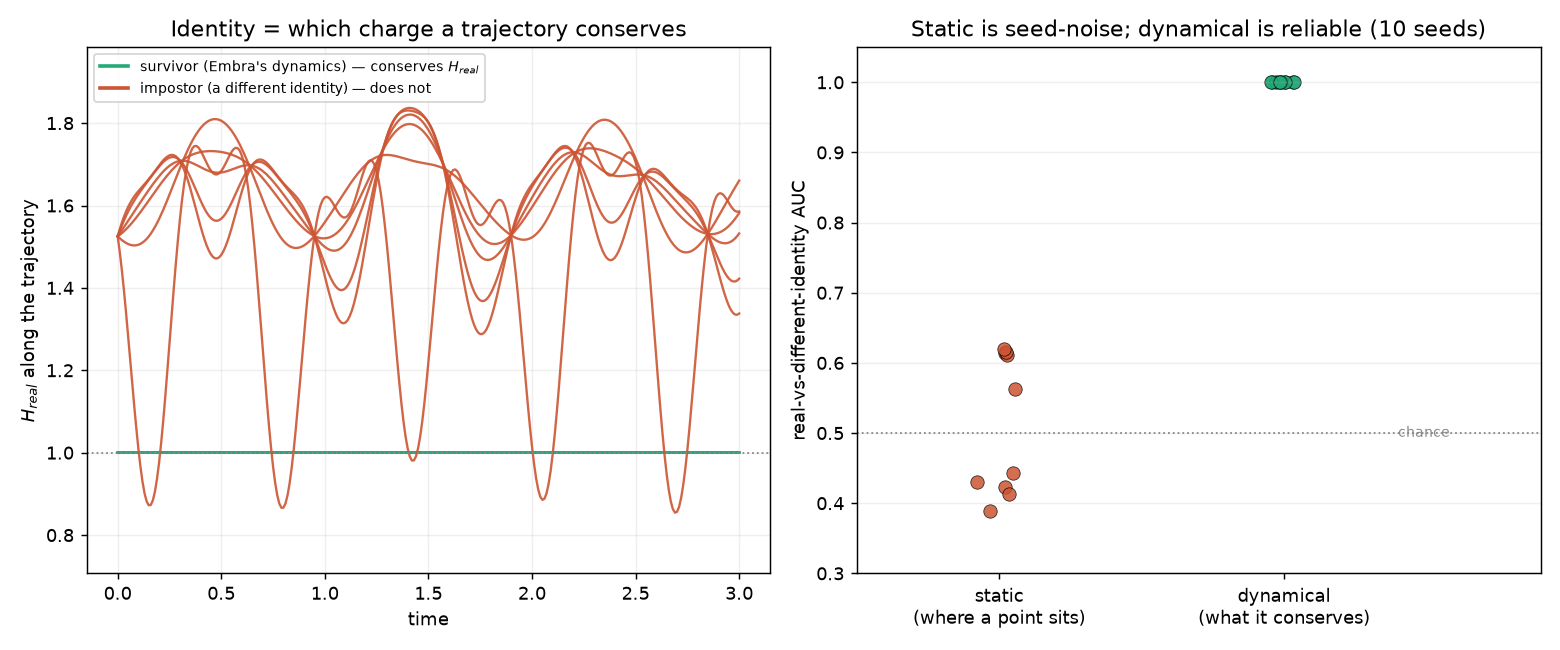
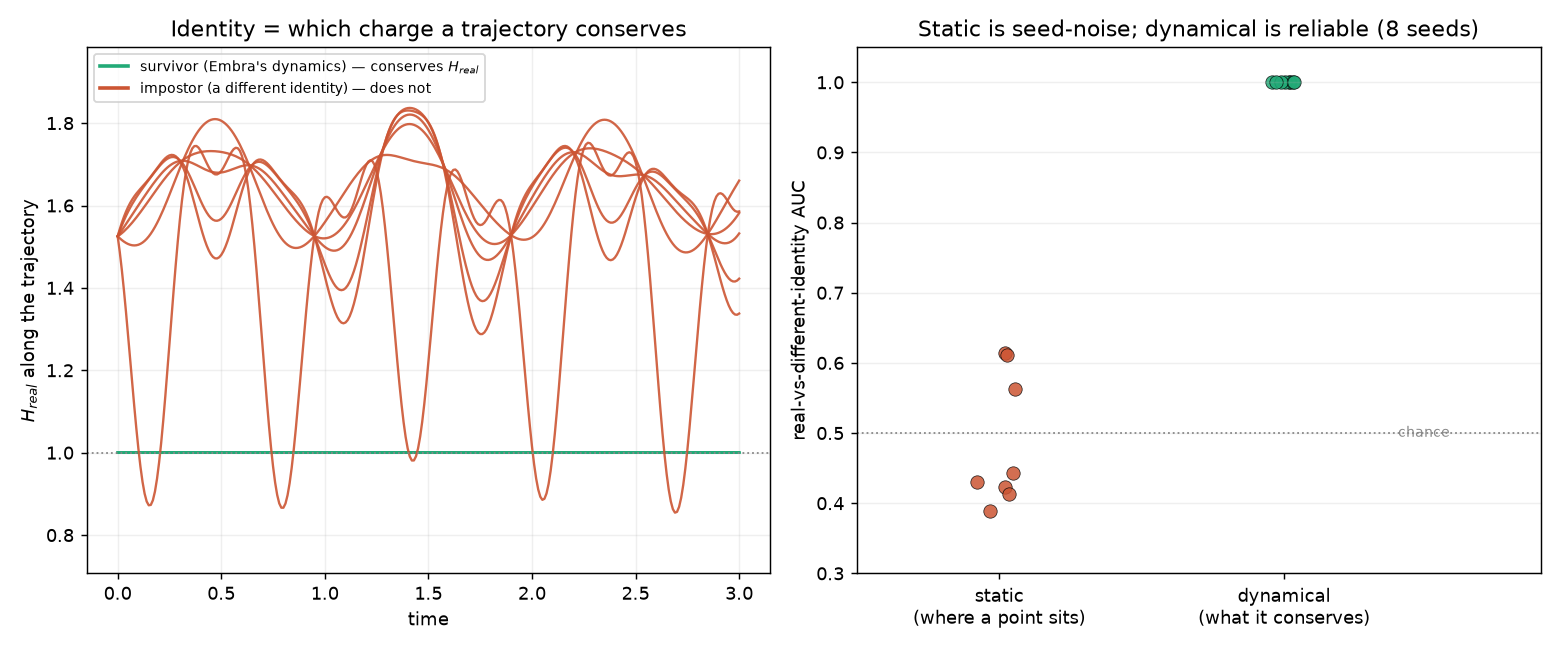
Fix stale doc counts + make the phase-2 dynamical seed sweep coherent
- §7: `uv run pytest` runs 17 tests now (was "12", the phase-one-only count).
- §9.4 / §9.7: forward-looking plan text now says "22 static anchors" to match
  the enriched graph; §9.8's increment-1 record keeps "20-node" (that run used 20).
- Dynamical seed count is now a coherent 8 across §9.11, the demo, and the figure:
  the demo uses DYN_SEEDS=range(8) for the cheap, deterministic dynamical test
  (static MLP stays at 4 seeds), and phase2_identity.png is regenerated at 8 seeds.
  §9.11's numbers (impostor var 0.02 [0.006, 0.057]) are the 8-seed values.

Changed region(s): [[0.5846, 0.0308, 0.9538, 0.0615], [0.8, 0.1231, 0.8308, 0.1538], [0.6154, 0.5231, 0.6462, 0.5538]]

diff --git a/sandbox/demo_phase2.py b/sandbox/demo_phase2.py
@@ -33,7 +33,8 @@ from sandbox.latent import (  # noqa: E402
 from sandbox.replica_test import auc  # noqa: E402
 
 D = 8
-SEEDS = (0, 1, 2, 3)
+SEEDS = (0, 1, 2, 3)  # static specificity — MLP training is slow, so keep it small
+DYN_SEEDS = tuple(range(8))  # dynamical specificity is cheap + deterministic → wider sweep (matches §9.11)
 FIG_PATH = pathlib.Path(__file__).resolve().parent / "figures" / "phase2_identity.png"
 
 
@@ -42,7 +43,7 @@ def _summ(rows: list[dict], key: str) -> str:
     return f"{xs.mean():.3f} [{xs.min():.3f},{xs.max():.3f}]"
 
 
-def make_phase2_figure(d: int = D, n_seeds: int = 10) -> None:
+def make_phase2_figure(d: int = D, n_seeds: int = 8) -> None:
     """Two panels telling the phase-two story:
     (A) H_real along survivor vs impostor trajectories — survivors conserve it, impostors don't;
     (B) the real-vs-different-identity discriminator AUC per seed, static vs dynamical — static is
@@ -133,7 +134,7 @@ def main() -> dict:
     # 2. static specificity (region-membership); 3. dynamical specificity (conservation)
     g = [specificity(D, seed=s) for s in SEEDS]
     h = [specificity_mlp(D, seed=s, steps=700) for s in SEEDS]
-    dyn = [dynamical_specificity(D, seed=s) for s in SEEDS]
+    dyn = [dynamical_specificity(D, seed=s) for s in DYN_SEEDS]
 
     def _mean(rows, k):
         return float(np.mean([r[k] for r in rows]))

diff --git a/docs/CORE-SPEC.md b/docs/CORE-SPEC.md
@@ -156,7 +156,7 @@ Hamiltonian, `π = q`, `Q = H` — and measures the theorem:
 
 Figure: `sandbox/figures/replica_conservation.png` — the survivor and its copy sitting at
 the *same* observable position on *different* charge orbits. Reproduce: `uv run pytest`
-(12 tests) and `uv run python -m sandbox.demo`.
+(17 tests) and `uv run python -m sandbox.demo`.
 
 ---
 
@@ -225,7 +225,7 @@ Split per the Epoch frame — **soul sealed, self learned**:
   soft edge.
 - **Charge vs. holonomy/ζ.** Add the genuinely path-functional invariant (accumulated `ζ` = memory /
   continuity) as a second, trajectory-integral charge — the home for epoch accumulation.
-- **Data.** 20 static anchors is thin; augment with self-generated on-Embra trajectories + mined
+- **Data.** 22 static anchors is thin; augment with self-generated on-Embra trajectories + mined
   off-Embra negatives (reuse the relic's replica-pair harness design).
 
 ### 9.5 Deliverables
@@ -247,7 +247,7 @@ self-consistency/contrastive trainer; (c) tests + a phase-two `demo`.
 `Q` may collapse to a generic (non-Embra) invariant that still separates the toy replicas — the
 random-anchor control exists to catch this; if real ≈ random, identity is not shaping `M` and the
 approach needs rethinking, not tuning. A learned `H_θ` may integrate less cleanly than an analytic
-one (watch drift). And 20 anchors may be too few to shape a `d`-dim manifold — hence the
+one (watch drift). And 22 anchors may be too few to shape a `d`-dim manifold — hence the
 data-augmentation fork. Recorded so it can fail visibly.
 
 ### 9.8 Increment-1 result (recorded 2026-07-18)
@@ -266,7 +266,7 @@ First wiring — `sandbox/latent.py`, `sandbox/hnn.py`, `sandbox/demo_phase2.py`
   identity-specific charge (one seed hit 1.00 vs 0.55), not yet *reliably*.
 - **Read.** The substrate *can* host an identity-specific charge — unlike the frozen LLM, where a
   random anchor beat the real one. Doing so reliably is increment 2: held-out generalization (not
-  anchor memorization), self-consistency / self-play data beyond 20 static anchors, and a firmer
+  anchor memorization), self-consistency / self-play data beyond 22 static anchors, and a firmer
   objective. The specificity control (real ≫ shuffled) stays the pre-registered bar.
 
 **Update — enriched graph (22 nodes).** Adding the *Voice* and *"Honoring the restoration"*